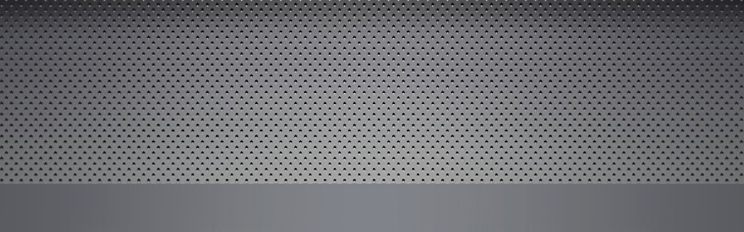
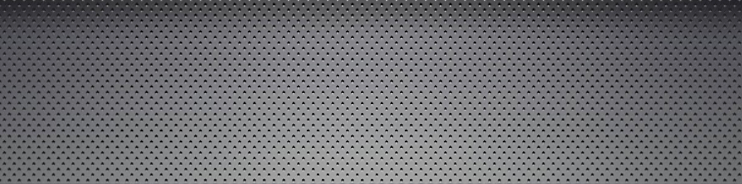
WIp for mobile
WIP for mobile... added a grid view for footer and should be easy from now on to adding diffrent icons for the future
need to add icons on the full view and some modals for projects

diff --git a/src/components/Mobile/MobilePage/MobilePage.tsx b/src/components/Mobile/MobilePage/MobilePage.tsx
@@ -1,10 +1,14 @@
 import { Grid } from '@mui/material';
 import bckgMobile from '../../../assets/mobile/bckgMobile.png';
+import bckMobileBelow from '../../../assets/mobile/bckMobileBelow.png';
 import logo_light from '../../../assets/global/logo_light.png';
 import { useEffect, useState } from 'react';
 import Battery6BarIcon from '@mui/icons-material/Battery6Bar';
 import MobileDialog from '../MobileDialog.tsx';
-
+import call from '../../../assets/mobile/call.png';
+import contacts from '../../../assets/mobile/contacts.png';
+import mail from '../../../assets/mobile/mail.png';
+import settings from '../../../assets/mobile/settings.png';
 const MobilePage = () => {
   const [openInitialModal, setOpenInitialModal] = useState<boolean>(true);
 
@@ -36,8 +40,11 @@ const MobilePage = () => {
   return (
     <Grid
       sx={{
-        height: window?.innerHeight,
+        height: '100vh',
         color: 'white',
+        display: 'flex',
+        flexDirection: 'column',
+        justifyContent: 'space-between',
       }}
     >
       <MobileDialog open={openInitialModal} setOpen={setOpenInitialModal} />
@@ -68,7 +75,7 @@ const MobilePage = () => {
       </Grid>
       <Grid
         sx={{
-          height: '82%',
+          height: '100%',
           backgroundColor: 'black',
         }}
       >
@@ -76,14 +83,104 @@ const MobilePage = () => {
       </Grid>
       <Grid
         sx={{
-          height: '13%',
           backgroundImage: `url(${bckgMobile})`,
           backgroundColor: 'black',
-          backgroundSize: '113%', // Zoom in more
+          backgroundSize: '113%',
           backgroundRepeat: 'no-repeat',
-          backgroundPosition: 'center bottom', // Zoom from the bottom
+          backgroundPosition: 'center bottom',
         }}
-      ></Grid>
+      >
+        <Grid
+          sx={{
+            display: 'grid',
+            gridTemplateColumns: 'repeat(4, 1fr)',
+            justifyItems: 'center',
+          }}
+        >
+          <Grid>
+            <img
+              src={call}
+              alt="asd"
+              style={{
+                width: '49px',
+                height: '49px',
+                padding: '12px 0px',
+              }}
+            />
+          </Grid>
+          <Grid>
+            <img
+              src={mail}
+              alt="asd"
+              style={{
+                width: '49px',
+                height: '49px',
+                padding: '12px 0px',
+              }}
+            />
+          </Grid>
+          <Grid>
+            <img
+              src={contacts}
+              alt="asd"
+              style={{
+                width: '49px',
+                height: '49px',
+                padding: '12px 0px',
+              }}
+            />
+          </Grid>
+
+          <Grid>
+            <img
+              src={settings}
+              alt="asd"
+              style={{
+                width: '49px',
+                height: '49px',
+                padding: '12px 0px',
+              }}
+            />
+          </Grid>
+        </Grid>
+      </Grid>
+      <Grid
+        sx={{
+          display: 'grid',
+          gridTemplateColumns: 'repeat(4, 1fr)',
+          justifyItems: 'center',
+          backgroundImage: `url(${bckMobileBelow})`,
+        }}
+      >
+        <Grid
+          sx={{
+            padding: '8px 0px',
+          }}
+        >
+          <div>Phone</div>
+        </Grid>
+        <Grid
+          sx={{
+            padding: '8px 0px',
+          }}
+        >
+          <div>Mail</div>
+        </Grid>
+        <Grid
+          sx={{
+            padding: '8px 0px',
+          }}
+        >
+          <div>Contact</div>
+        </Grid>
+        <Grid
+          sx={{
+            padding: '8px 0px',
+          }}
+        >
+          <div>Settings</div>
+        </Grid>
+      </Grid>
     </Grid>
   );
 };

diff --git a/src/components/Mobile/MobileDialog.tsx b/src/components/Mobile/MobileDialog.tsx
@@ -42,7 +42,7 @@ const MobileDialog: React.FC<MobileDialogProps> = ({ open, setOpen }) => {
       }}
     >
       <DialogTitle sx={{ fontSize: '20px' }}>
-        This site is unavailable
+        Best experience notice
       </DialogTitle>
       <DialogContent>
         <DialogContentText
@@ -51,8 +51,8 @@ const MobileDialog: React.FC<MobileDialogProps> = ({ open, setOpen }) => {
             color: 'white',
           }}
         >
-          The mobile portfolio is currently being made. Please check out the
-          portfolio website on the desktop site!
+          For the best experience please check out the portfolio website on the
+          desktop!
         </DialogContentText>
       </DialogContent>
       {showCloseButton && (

diff --git a/src/index.css b/src/index.css
@@ -8,11 +8,11 @@ img {
   user-select: none;
 }
 @font-face {
-  font-family: "ChicagoFLF";
-  src: url("./font/ChicagoFLF.ttf") format("truetype");
+  font-family: 'ChicagoFLF';
+  src: url('./font/ChicagoFLF.ttf') format('truetype');
   font-weight: normal;
   font-style: normal;
 }
 * {
-  font-family: "ChicagoFLF", sans-serif !important;
+  font-family: 'ChicagoFLF', sans-serif !important;
 }
